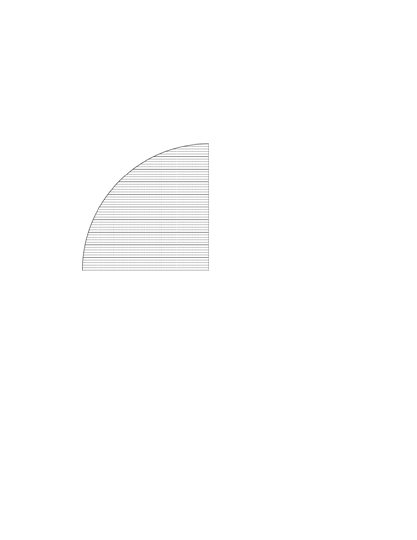
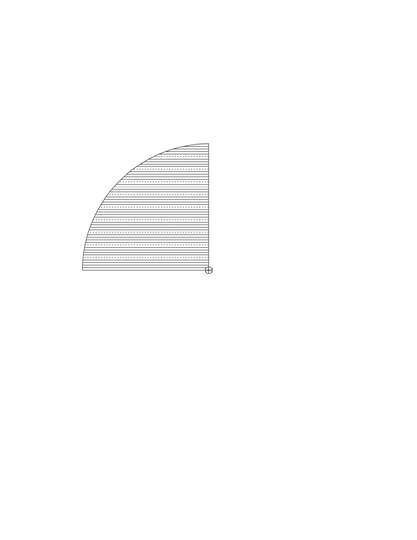
Finished work on sine grid option

Changed region(s): [[0.1871, 0.2667, 0.53, 0.5037]]

diff --git a/src/main/java/com/wymarc/astrolabe/generator/gui/tabbedview/ThumbNail.java b/src/main/java/com/wymarc/astrolabe/generator/gui/tabbedview/ThumbNail.java
@@ -76,10 +76,17 @@ public class ThumbNail extends JPanel{
     private JLabel unequalHoursBoth = null;
     private JLabel coTangentScale = null;
     private JLabel lunarMansions = null;
+
     private JLabel topLeftSine60 = null;
     private JLabel topLeftSine100 = null;
-    private JLabel topLeftSineCosine60 = null;
-    private JLabel topLeftSineCosine100 = null;
+    private JLabel topLeftSineDeg = null;
+    private JLabel topLeftCosine60 = null;
+    private JLabel topLeftCosine100 = null;
+    private JLabel topLeftCosineDeg = null;
+    private JLabel topLeftRadials = null;
+    private JLabel topLeftArcs = null;
+    private JLabel topLeftObliqity = null;
+
     private JLabel unequalTopLeft = null;
     private JLabel unequalTopRight = null;
 
@@ -142,10 +149,17 @@ public class ThumbNail extends JPanel{
         unequalHoursBoth = createLayer("gui/images/back/both_unequal.png");
         coTangentScale = createLayer("gui/images/back/cotan.png");
         lunarMansions = createLayer("gui/images/back/lunar_mansions.png");
-        topLeftSine60 = createLayer("gui/images/back/t_l_sine60.png");
+
+        topLeftSine60 = createLayer("gui/images/back/t_l_sine.png");
         topLeftSine100 = createLayer("gui/images/back/t_l_sine100.png");
-        topLeftSineCosine60 = createLayer("gui/images/back/t_l_sinecos60.png");
-        topLeftSineCosine100 = createLayer("gui/images/back/t_l_sinecos100.png");
+        topLeftSineDeg = createLayer("gui/images/back/t_l_sinedegree.png");
+        topLeftCosine60 = createLayer("gui/images/back/t_l_cosine.png");
+        topLeftCosine100 = createLayer("gui/images/back/t_l_cos100.png");
+        topLeftCosineDeg = createLayer("gui/images/back/t_l_cosdegree.png");
+        topLeftRadials = createLayer("gui/images/back/t_l_radials.png");
+        topLeftArcs = createLayer("gui/images/back/t_l_arcs.png");
+        topLeftObliqity = createLayer("gui/images/back/t_l_obliqity.png");
+
         unequalTopLeft = createLayer("gui/images/back/t_l_unequal.png");
         unequalTopRight = createLayer("gui/images/back/t_r_unequal.png");
 
@@ -320,10 +334,17 @@ public class ThumbNail extends JPanel{
             layeredPane.add(unequalHoursBoth, 0, 0);
             layeredPane.add(coTangentScale, 0, 0);
             layeredPane.add(lunarMansions, 0, 0);
+
             layeredPane.add(topLeftSine60, 0, 0);
             layeredPane.add(topLeftSine100, 0, 0);
-            layeredPane.add(topLeftSineCosine60, 0, 0);
-            layeredPane.add(topLeftSineCosine100, 0, 0);
+            layeredPane.add(topLeftSineDeg, 0, 0);
+            layeredPane.add(topLeftCosine60, 0, 0);
+            layeredPane.add(topLeftCosine100, 0, 0);
+            layeredPane.add(topLeftCosineDeg, 0, 0);
+            layeredPane.add(topLeftRadials, 0, 0);
+            layeredPane.add(topLeftArcs, 0, 0);
+            layeredPane.add(topLeftObliqity, 0, 0);
+
             layeredPane.add(unequalTopLeft, 0, 0);
             layeredPane.add(unequalTopRight, 0, 0);
             layeredPane.add(eot, 0, 0);
@@ -354,10 +375,17 @@ public class ThumbNail extends JPanel{
         coTangentScale.setVisible(false);
         lunarMansions.setVisible(false);
         unequalHoursFront.setVisible(false);
+
         topLeftSine60.setVisible(false);
         topLeftSine100.setVisible(false);
-        topLeftSineCosine60.setVisible(false);
-        topLeftSineCosine100.setVisible(false);
+        topLeftSineDeg.setVisible(false);
+        topLeftCosine60.setVisible(false);
+        topLeftCosine100.setVisible(false);
+        topLeftCosineDeg.setVisible(false);
+        topLeftRadials.setVisible(false);
+        topLeftArcs.setVisible(false);
+        topLeftObliqity.setVisible(false);
+
         unequalTopLeft.setVisible(false);
         unequalTopRight.setVisible(false);
         eot.setVisible(false);
@@ -394,29 +422,53 @@ public class ThumbNail extends JPanel{
             offsetCalendar.setVisible(true);
         }
 
+
         if (GeneratorGui.MY_ASTROLABE.getTopLeft() == 1 && GeneratorGui.MY_ASTROLABE.getTopRight() == 1) {
             unequalHoursBoth.setVisible(true);
-        }else {
-            if (GeneratorGui.MY_ASTROLABE.getTopLeft() == 1) {
-                unequalTopLeft.setVisible(true);
-            } else if (GeneratorGui.MY_ASTROLABE.getTopLeft() == 2) {
-                topLeftSine60.setVisible(true);
-            } else if (GeneratorGui.MY_ASTROLABE.getTopLeft() == 3) {
-                topLeftSine100.setVisible(true);
-            } else if (GeneratorGui.MY_ASTROLABE.getTopLeft() == 4) {
-                topLeftSineCosine60.setVisible(true);
-            } else if (GeneratorGui.MY_ASTROLABE.getTopLeft() == 5) {
-                topLeftSineCosine100.setVisible(true);
-            }
+        }else if (GeneratorGui.MY_ASTROLABE.getTopLeft() == 1 || GeneratorGui.MY_ASTROLABE.getTopLeft() == 3) {
+            unequalTopLeft.setVisible(true);
+        }
 
-            if (GeneratorGui.MY_ASTROLABE.getTopRight() == 1) {
-                unequalTopRight.setVisible(true);
-            } else if (GeneratorGui.MY_ASTROLABE.getTopRight() == 2) {
-                arcsEqual.setVisible(true);
-            } else if (GeneratorGui.MY_ASTROLABE.getTopRight() == 3) {
-                arcsProjected.setVisible(true);
+        if (GeneratorGui.MY_ASTROLABE.getTopLeft() == 2 || GeneratorGui.MY_ASTROLABE.getTopLeft() == 3 ){
+            // We are showing the sine grid now get the options
+            // Sine scale
+            if (GeneratorGui.MY_ASTROLABE.getUse100()){
+                topLeftSine100.setVisible(true);
+            }else if (GeneratorGui.MY_ASTROLABE.getGridPerDegree()){
+                topLeftSineDeg.setVisible(true);
+            }else{
+                topLeftSine60.setVisible(true);
+            }
+            // Cosine scale
+            if (GeneratorGui.MY_ASTROLABE.getShowCosine()) {
+                if (GeneratorGui.MY_ASTROLABE.getUse100()) {
+                    topLeftCosine100.setVisible(true);
+                } else if (GeneratorGui.MY_ASTROLABE.getGridPerDegree()) {
+                    topLeftCosineDeg.setVisible(true);
+                } else {
+                    topLeftCosine60.setVisible(true);
+                }
+            }
+            // Misc
+            if (GeneratorGui.MY_ASTROLABE.getShowRadials()){
+                topLeftRadials.setVisible(true);
+            }
+            if (GeneratorGui.MY_ASTROLABE.getShowArcs()){
+                topLeftArcs.setVisible(true);
+            }
+            if (GeneratorGui.MY_ASTROLABE.getShowObliqityArc()){
+                topLeftObliqity.setVisible(true);
             }
         }
+
+        if (GeneratorGui.MY_ASTROLABE.getTopRight() == 1 && (GeneratorGui.MY_ASTROLABE.getTopLeft() == 2 || GeneratorGui.MY_ASTROLABE.getTopLeft() == 3)) {
+            unequalTopRight.setVisible(true);
+        } else if (GeneratorGui.MY_ASTROLABE.getTopRight() == 2) {
+            arcsEqual.setVisible(true);
+        } else if (GeneratorGui.MY_ASTROLABE.getTopRight() == 3) {
+            arcsProjected.setVisible(true);
+        }
+
 
         if (GeneratorGui.MY_ASTROLABE.getBottomLeft() == 1 || GeneratorGui.MY_ASTROLABE.getBottomLeft() == 2 || GeneratorGui.MY_ASTROLABE.getBottomLeft() == 3) {
             if (GeneratorGui.MY_ASTROLABE.getShowCotangentScale()){

diff --git a/src/main/java/com/wymarc/astrolabe/generator/printengines/postscript/RulePrintEngine.java b/src/main/java/com/wymarc/astrolabe/generator/printengines/postscript/RulePrintEngine.java
@@ -352,9 +352,9 @@ public class RulePrintEngine {
             int h = 5;
             boolean label = false;
 
-            for (int i = 0; i < 60; i++){
+            for (int i = 0; i < 61; i++){
                 if((i == 0)||((i%5) == 0)){
-                    h = 7;
+                    h = 10;
                     label = true;
                 }else{
                     h = 5;
@@ -364,50 +364,14 @@ public class RulePrintEngine {
                 out += "\n" + "newpath";
                 out += "\n" + -r + " 0 moveto";
                 out += "\n" + -r + " " + -h + " lineto stroke";
+
+                if(label){
+                    out += "\n" + "newpath";
+                    out += "\n" + "NormalFont6 setfont";
+                    out += "\n" + -(r+5) + " -15  moveto";
+                    out += "\n" + "( " + i + ") show";
+                }
             }
-
-
-
-//            int h = 0;
-//            boolean label = false;
-//            double scaling = (outerlimit - innerLimit)/34.0;
-//            for(int i = -17; i < 17; i++){
-//                if((i == 0)||((i%10) == 0)){
-//                    h = 10;
-//                    label = true;
-//                }else if((i%5) == 0){
-//                    h = 7;
-//                    label = true;
-//                }else{
-//                    h = 5;
-//                    label = false;
-//                }
-//                double r = ((outerlimit+innerLimit)/2.0) - (i * scaling);
-//                if(counterChange)
-//                {
-//                    out += "\n" + "newpath";
-//                    out += "\n" + r + " 0 moveto";
-//                    out += "\n" + r + " " + h + " lineto stroke";
-//
-//                    if(label){ //todo, southern herishere?
-//                        out += "\n" + "newpath";
-//                        out += "\n" + "NormalFont6 setfont";
-//                        out += "\n" + (r-5) + " 10  moveto";
-//                        out += "\n" + "( " + i + ") show";
-//                    }
-//                }else{
-//                    out += "\n" + "newpath";
-//                    out += "\n" + r + " 0 moveto";
-//                    out += "\n" + r + " " + -h + " lineto stroke";
-//
-//                    if(label){ //todo, southern herishere?
-//                        out += "\n" + "newpath";
-//                        out += "\n" + "NormalFont6 setfont";
-//                        out += "\n" + (r-5) + " -10  moveto";
-//                        out += "\n" + "( " + i + ") show";
-//                    }
-//                }
-//            }
         }
 
         if (showLabel){
@@ -433,7 +397,7 @@ public class RulePrintEngine {
      * @return  returns the ps code for drawing the rules and pointers
      *
      */
-    public String createRule(Astrolabe myAstrolabeIn, boolean showLabel){
+    public String createCombinedSheet(Astrolabe myAstrolabeIn, boolean showLabel){
 
         myAstrolabe = myAstrolabeIn;
 
@@ -505,9 +469,7 @@ public class RulePrintEngine {
         out += EPSToolKit.getHeader(myAstrolabe,"Alidade Sheet");
         out += "\n" + "%% setup";
         out += "\n" + ".1 setlinewidth";
-        if(myAstrolabe.getShowEquationOfTime()){
-            out += EPSToolKit.setUpFonts();
-        }
+        out += EPSToolKit.setUpFonts();
 
         for(int i = 1; i <= 10; i++)
         {

diff --git a/src/main/java/com/wymarc/astrolabe/generator/printengines/postscript/EPSPrintEngine.java b/src/main/java/com/wymarc/astrolabe/generator/printengines/postscript/EPSPrintEngine.java
@@ -126,7 +126,7 @@ public class EPSPrintEngine {
 
 	        // create accessory sheet
             RulePrintEngine myAstrolabeRule = new RulePrintEngine();
-            dataString = myAstrolabeRule.createRule(GeneratorGui.MY_ASTROLABE, true);
+            dataString = myAstrolabeRule.createCombinedSheet(GeneratorGui.MY_ASTROLABE, true);
             save(filePath + "/AstrolabeRules.eps",dataString);
 
             //print universal astrolabe
@@ -313,7 +313,7 @@ public class EPSPrintEngine {
 
             //rule
             RulePrintEngine myAstrolabeRule = new RulePrintEngine();
-            dataString = myAstrolabeRule.createRule(GeneratorGui.MY_ASTROLABE, true);
+            dataString = myAstrolabeRule.createCombinedSheet(GeneratorGui.MY_ASTROLABE, true);
             updateZip("AstrolabeRule.eps", zos, dataString);
 
             //extras
@@ -452,7 +452,7 @@ public class EPSPrintEngine {
             postScriptStrings.add(myAstrolabeRete.createRete(GeneratorGui.MY_ASTROLABE));
             // create rules
             RulePrintEngine myAstrolabeRules = new RulePrintEngine();
-            postScriptStrings.add(myAstrolabeRules.createRule(GeneratorGui.MY_ASTROLABE, true));
+            postScriptStrings.add(myAstrolabeRules.createCombinedSheet(GeneratorGui.MY_ASTROLABE, true));
         }else if (GeneratorGui.tabSelected.equals("Quadrants")){
             //Quadrants
             if (GeneratorGui.MY_ASTROLABE.getPrintBasicHoraryQuadrant()){
@@ -514,7 +514,7 @@ public class EPSPrintEngine {
 
         // create rules
         RulePrintEngine myAstrolabeRules = new RulePrintEngine();
-        postScriptStrings.add(myAstrolabeRules.createRule(GeneratorGui.MY_ASTROLABE, true));
+        postScriptStrings.add(myAstrolabeRules.createCombinedSheet(GeneratorGui.MY_ASTROLABE, true));
 
         //extras
         if (GeneratorGui.MY_ASTROLABE.getPrintRuleSheet()){

diff --git a/src/main/java/com/wymarc/astrolabe/generator/printengines/postscript/BackPrintEngine.java b/src/main/java/com/wymarc/astrolabe/generator/printengines/postscript/BackPrintEngine.java
@@ -359,6 +359,7 @@ public class BackPrintEngine {
                 }
             }
         }
+        out += "\n" + "[] 0 setdash";
 
         out += "\n" + "%% ================ Draw Radials =================";
         if (myAstrolabe.getShowRadials()) {
@@ -378,7 +379,6 @@ public class BackPrintEngine {
                 double angleR = Math.toRadians(j * 10.0);
                 double r = Math.sin(angleR)*radius;
                 out += "\n" + "newpath";
-                out += "\n" + "0 0 moveto";
                 out += "\n" + "0 0 " + r + " 90 180 arc stroke";
             }
         }
@@ -390,7 +390,6 @@ public class BackPrintEngine {
             double r = Math.sin(angleR)*radius;
             out += "\n" + "newpath";
             out += "\n" + "[3 3] 0 setdash";
-            out += "\n" + "0 0 moveto";
             out += "\n" + "0 0 " + r + " 90 180 arc stroke";
             out += "\n" + "[] 0 setdash";
         }
